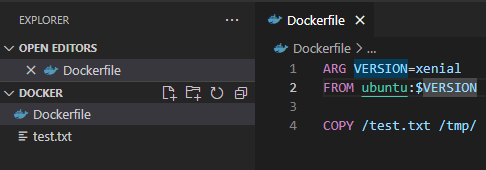
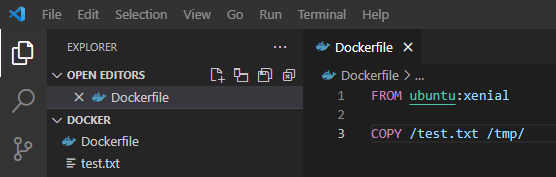
small changes and format text

diff --git a/3-Docker/2-Basics/Theory/README.md b/3-Docker/2-Basics/Theory/README.md
@@ -96,13 +96,19 @@ Docker can build images automatically by reading the instructions from a Dockerf
 
 ![](../pics/docker_custom_nano.png)
 
-A `Dockerfile` is a set of commands followed by their arguments with sometimes a few comments. The instructions in a Dockerfile are run in order. A Dockerfile must begin with a `FROM` instruction. This may be after parser directives, comments, and globally scoped `ARGs`(arguments command). The `FROM` instruction specifies the Parent Image from which you are building. FROM may only be preceded by one or more `ARG` instructions, which declare arguments that are used in FROM lines in the Dockerfile.
+A `Dockerfile` is a set of commands followed by their arguments with sometimes a few comments. The instructions in a Dockerfile are run in order. A Dockerfile must begin with a `FROM` instruction. This may be after parser directives, comments, and globally scoped `ARGs`(arguments command). The `FROM` instruction specifies the Parent Image from which you are building. `FROM` may only be preceded by one or more `ARG` instructions, which declare arguments that are used in the `FROM` line in the Dockerfile.
 
 In the custom_nano file at line 1 we have the `FROM` command followed with the parent image ubuntu:xenial which is the argument.
 at line 3 and 4 we have the `RUN` CMD followed by the arguments which will launch the OS update and then the installation of `nano`.
 
 ## Docker Commands
 
+
+**Before testing each commands, don't forget to remove all containers and images. We'll modify the Dockerfile and we'll have to rebuild the image and containers each time so you'll end up with a lot of them if you don't.**
+```
+docker container rm &lt;container id&gt;
+docker image rm &lt;image id&gt;
+```
 
 ##### FROM #####
 
@@ -113,10 +119,21 @@ Note that you can have more than one `FROM` per Dockerfile to create images or t
 ![](../pics/docker_two_from.png)
 
 You can also set an `ARG` before to use it's value:
+```
+ARG VERSION=latest
+FROM alpine:$VERSION
+```
 
->ARG VERSION=latest\
->FROM alpine:$VERSION
+Create a file name `Dockerfile` in an empty folder(mine is at "C:\Training\Docker" for ease of acces later) and fill it with those lines:
+```
+FROM ubuntu:xenial
 
+RUN apt-get update &&\
+    apt-get install nano
+```
+
+To build an image using the Dockerfile use the tag -f:
+>docker build -t xenial -f Dockerfile .     
 
 ##### RUN #####
 
@@ -129,29 +146,46 @@ The `RUN` command, as most of the others commands, has more than one form. The f
 >RUN &lt;command&gt;
 
 The second form is the **Exec**:
->RUN ["executable", "param1", "param2"]\
->RUN ["/bin/bash", "-c", "echo hello"]
+```
+RUN ["executable", "param1", "param2"]
+RUN ["/bin/bash", "-c", "echo hello"]
+```
 
-Note that in the **Exec** form you can simply pass a variable to any executable.This won't work:
+Note that in the **Exec** form you can't simply pass a variable to any executable.This won't work:
 >RUN [ "echo", "$HOME" ]
 
 You have to use a shell.
 >RUN [ "sh", "-c", "echo $HOME" ]
 
 Also if you're using a path, you'll have to escape the `\` character:
->RUN ["c:\\windows\\system32\\tasklist.exe"]
+>RUN ["c:\\\windows\\\system32\\\tasklist.exe"]
 
 
 ##### COPY #####
 
 The `COPY` command allows you to copy a file or folder from your local filesystem to your container or the other way around. Note that if you've more than one `FROM` command and if you give alias to them, you can use one of those images as a source too.
-If you copy a file from your local filesystem, the path will start where your `Dockerfile` is.
+If you copy a file from your local filesystem, the path will start where your `Dockerfile` is:\
+```
+FROM ubuntu:xenial
+
+COPY /test.txt /tmp/
+```
 ![](../pics/docker_copy_file.png)
 
 As you can see in the example above, the test.txt file is in the same folder as my `Dockerfile` the copy command takes the source followed by the path in the xenial container( `/tmp/`).
+
+```
+docker build -t xenial -f Dockerfile .     
+docker run -it xenial
+ls /tmp/
+```
+![](../pics/docker_copy_file2.png)
+
 Note that you can copy more than one file if you use Go's [filepath.Match](https://pkg.go.dev/path/filepath#Match) rules:
->COPY test?.txt\
->COPY test*
+```
+COPY test?.txt
+COPY test*
+```
 
 The first copy above will copy any "test" text file followed by any single character. The second one will copy any file whose name start with "test".
 
@@ -164,12 +198,31 @@ The `ADD` command can not only use file or directories on your local system but 
 
 ##### ARG #####
 
-The `ARG` instruction defines a variable that users can pass at build-time to the builder with the docker build command using the `--build-arg <varname>=<value>` flag. The `ARG` command is only available at the build-time, meaning that as soon as your image is formed, you can't acces it when you run your container. 
+The `ARG` instruction defines a variable that users can pass at build-time to the builder with the docker build command using the `--build-arg <varname>=<value>` flag. The `ARG` command is only available at the build-time, meaning that as soon as your image is formed, you can't acces it when you run your container.\
 ![](../pics/docker_arg_env.png)
 
 
-If a user specifies a build argument that was not defined in the `Dockerfile`, the build outputs a warning. You can also setup a default value in the `Dockerfile`.
+If a user specifies a build argument that was not defined in the `Dockerfile`, the build outputs a warning. You can also setup a default value in the `Dockerfile`.\
+```
+ARG VERSION=xenial
+FROM ubuntu:xenial
+
+COPY /test.txt /tmp/
+
+ARG MSG="Hello World"
+
+RUN echo $MSG > /tmp/test.txt
+```
+
+Save it and in the terminal type:
+```
+docker build -t xenial -f Dockerfile .
+docker run -id xenial
+docker exec -it 83e bash
+cat /tmp/test.txt
+```
 ![](../pics/docker_arg_cat.png)
+**Note that you can type docker run -it xenial instead of using docker exec as it'll open the bash directly
 
 As you can see above, we've used a default message "Hello World" to the `ARG MSG`. Now we'll do the same but we'll pass another message as an argument when we build the image:
 >docker build -t xenial --build-arg MSG="Hello Friend" -f ./Dockerfile .
@@ -185,6 +238,18 @@ Note that the `ARG` command can be overrided by the `ENV` command.
 
 The `ENV` instruction is close to the the `ARG` instruction but it can be accessed after the build-time. It can also override any variable defined as an `ARG`.
 It's sometime useful to use both instruction together:
+```
+ARG VERSION=xenial
+FROM ubuntu:xenial
+
+COPY /test.txt /tmp/
+
+ARG MSG
+
+ENV TEXT = $MSG
+
+RUN echo $TEXT > /tmp/test.txt
+```
 
 >docker build -t xenial --build-arg MSG="Hello Friend" -f ./Dockerfile . 
 
@@ -193,9 +258,10 @@ It's sometime useful to use both instruction together:
 In this case, we pass a value as argument in the build command as an `ARG` and then we give that value to the `ENV` as we cannot define an `ENV` in the build command. This way you can define dynamics `ENV` variables available to your containers
 
 In total there are 3 ways to define an `ENV` variable:
-1.One by one as we did above or when we run the container with the tag `-e` and the difinition in double quote docker `run -e "env_var_name=another_value"` or by using a `docker-compose.yml` file.
-2.Pass the value from the host which is the same methode as above but without giving a value to the variable. Docker will then fetch the value in the host environlent.
-3.By using an environment file or env_file.
+
+1. One by one as we did above or when we run the container with the tag `-e` and the difinition in double quote docker `run -e "env_var_name=another_value"` or by using a `docker-compose.yml` file.
+2. Pass the value from the host which is the same methode as above but without giving a value to the variable. Docker will then fetch the value in the host environlent.
+3. By using an environment file or env_file.
 
 ![](../pics/docker_env_arg_recap.png)
 
@@ -203,12 +269,21 @@ In total there are 3 ways to define an `ENV` variable:
 ##### CMD #####
 
 The `CMD` instruction defines the default behavior/executable of a Docker image. You can put more than one `CMD` in your Dockerfile but docker will ignore all of them except the last one. You can run an image as the base of a container without adding command-line arguments. In that case, the container runs the process specified by the CMD command. 
+```
+ARG VERSION=xenial
+FROM ubuntu:xenial
 
+COPY /test.txt /tmp/
+
+ARG MSG
+
+ENV TEXT = $MSG
+
+RUN echo $TEXT > /tmp/test.txt
+
+CMD ["cat", "/tmp/test.txt"]
+```
 ![](../pics/docker_cmd_cat.png)
-
-As it has become an executable, as soon as the task is done, the containers stops.
-
-![](../pics/docker_cmd_con.png)
 
 If you add an argument when running, the CMD is overrrided.
 
@@ -240,10 +315,12 @@ ENTRYPOINT ["cat", "/tmp/test.txt"]
 
 If we build the image and run it without argument we'll have:
 >docker run xenial
+
 ![](../pics/docker_entry_run.png)
 
 Now to see that we can't override the command by passing an argument, we'll us the path to the new test file we created:
 >docker run xenial /tmp/test2.txt
+
 ![](../pics/docker_entry_run2.png)
 
 We can see that the cat test1.txt has been executed and after we get a cat test2.txt
@@ -264,10 +341,12 @@ docker volume inspect volume-test
 
 After you've build your image you can create a container and link it with the volume with the -v parameter:
 >docker run -v &lt;volume-name&gt;:&lt;/path/container/&gt; xenial
+
 ```
 docker build -t xenial .
 docker run -v volume-test:/tmp/ xenial
 ```
+
 The container and the volume are now linked. You can create a file and exit the container:
 ```
 docker run -it -v volume-test:/tmp/ xenial
@@ -290,11 +369,12 @@ As you can see above, the test.txt file is already there and the container id is
 
 Now that you've seen how a volume work, wee'll show you how you can in the same way use you host machine as the volume:
 >docker run -v &lt;path\to\Host&gt;:&lt;/path/container&gt; xenial
+
 ```
 docker build -t xenial .
 docker run -v C:\Training\Shared:/tmp/ xenial
 ```
-*On Windows* you should see this message appear
+*On Windows* you should see this message appear:\
 ![](../pics/docker_vol_share.png)
 
 You shoul have the bash still opened as we have used the tags -it:
@@ -303,17 +383,17 @@ You shoul have the bash still opened as we have used the tags -it:
 Now create a file and fill it with a simple phrase by typing in the console:
 >touch /tmp/test.txt && echo "Hello World" > /tmp/test.txt
 
-On your local folder at the path you gave, you should now have an test.txt file:
+On your local folder at the path you gave, you should now have an test.txt file:\
 ![](../pics/docker_vol_world.png)
-As well as on your container:
+
+As well as on your container:\
 ![](../pics/docker_vol_world2.png)
 
-On your host machine add to the text file the phrase "Hello Friend" and save it :
-![](../pics/docker_vol_friend.png)
-As well as on your container:
+On your host machine add to the text file the phrase "Hello Friend" and save it :\
 ![](../pics/docker_vol_friend.png)
 
-Sharing files or folders between containers or the host is simple but there is much more things you can look into. 
+You can see the modification applied to the file in your container:\
+![](../pics/docker_vol_friend.png) 
 
 
 ## Docker Hub
